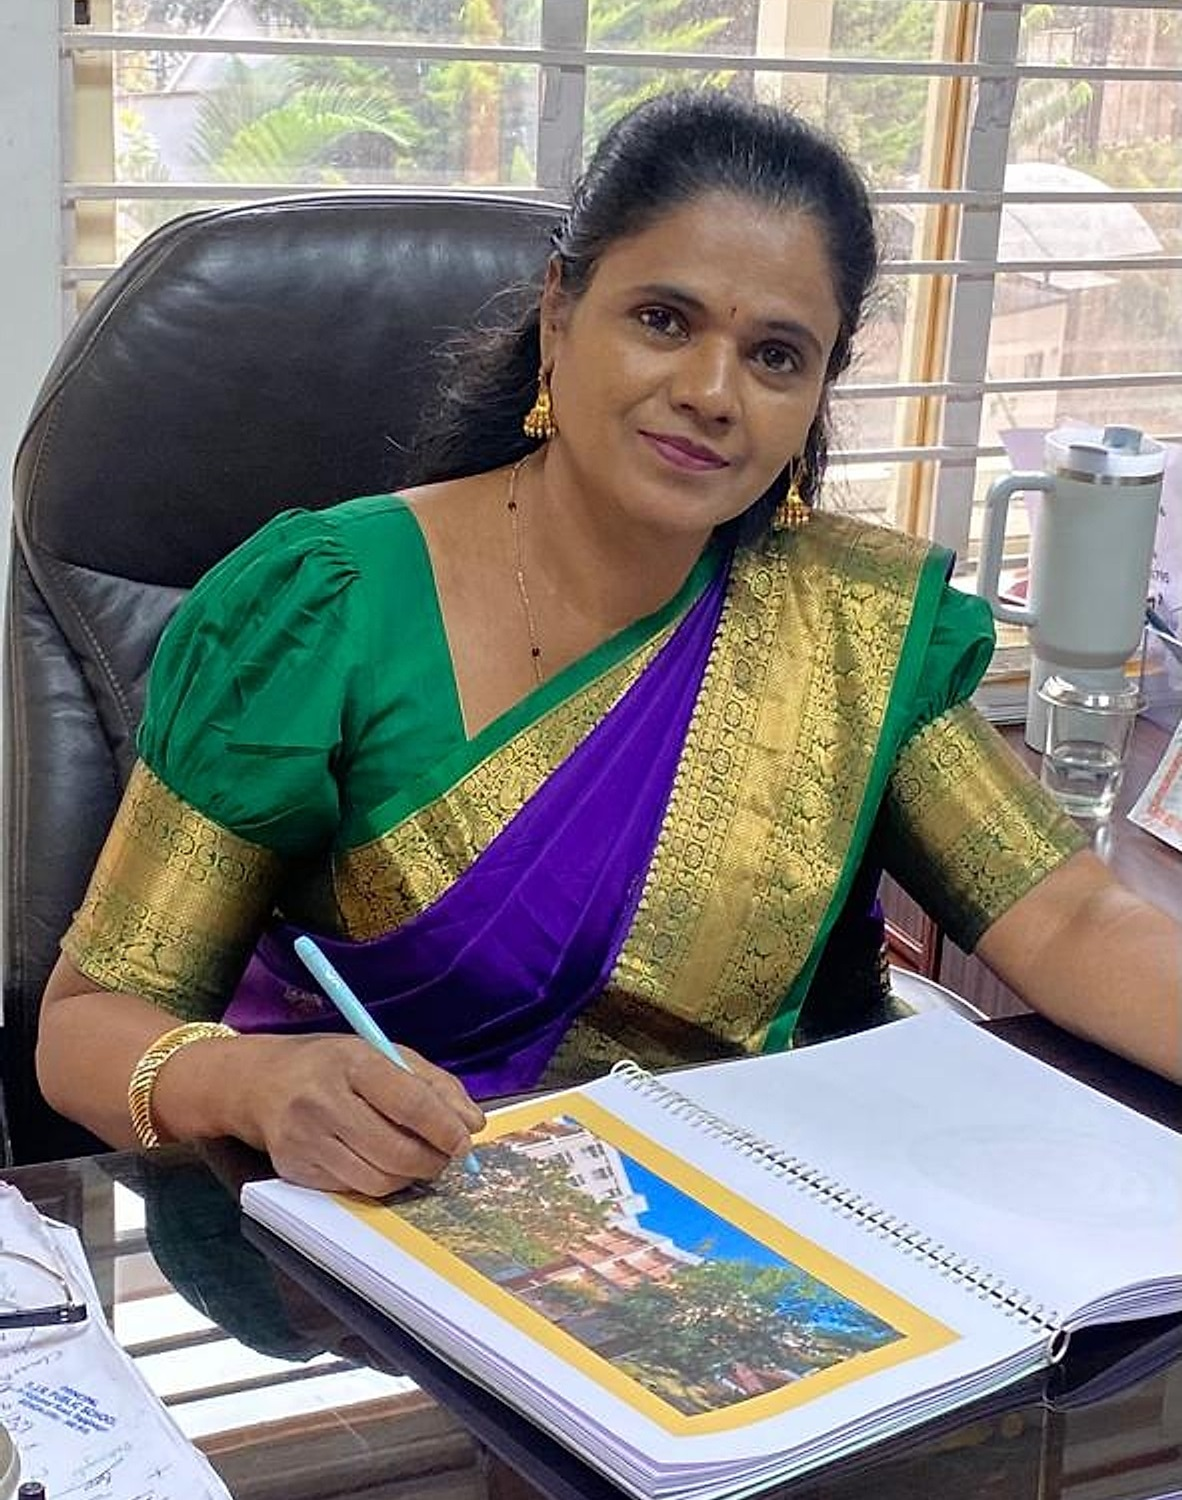
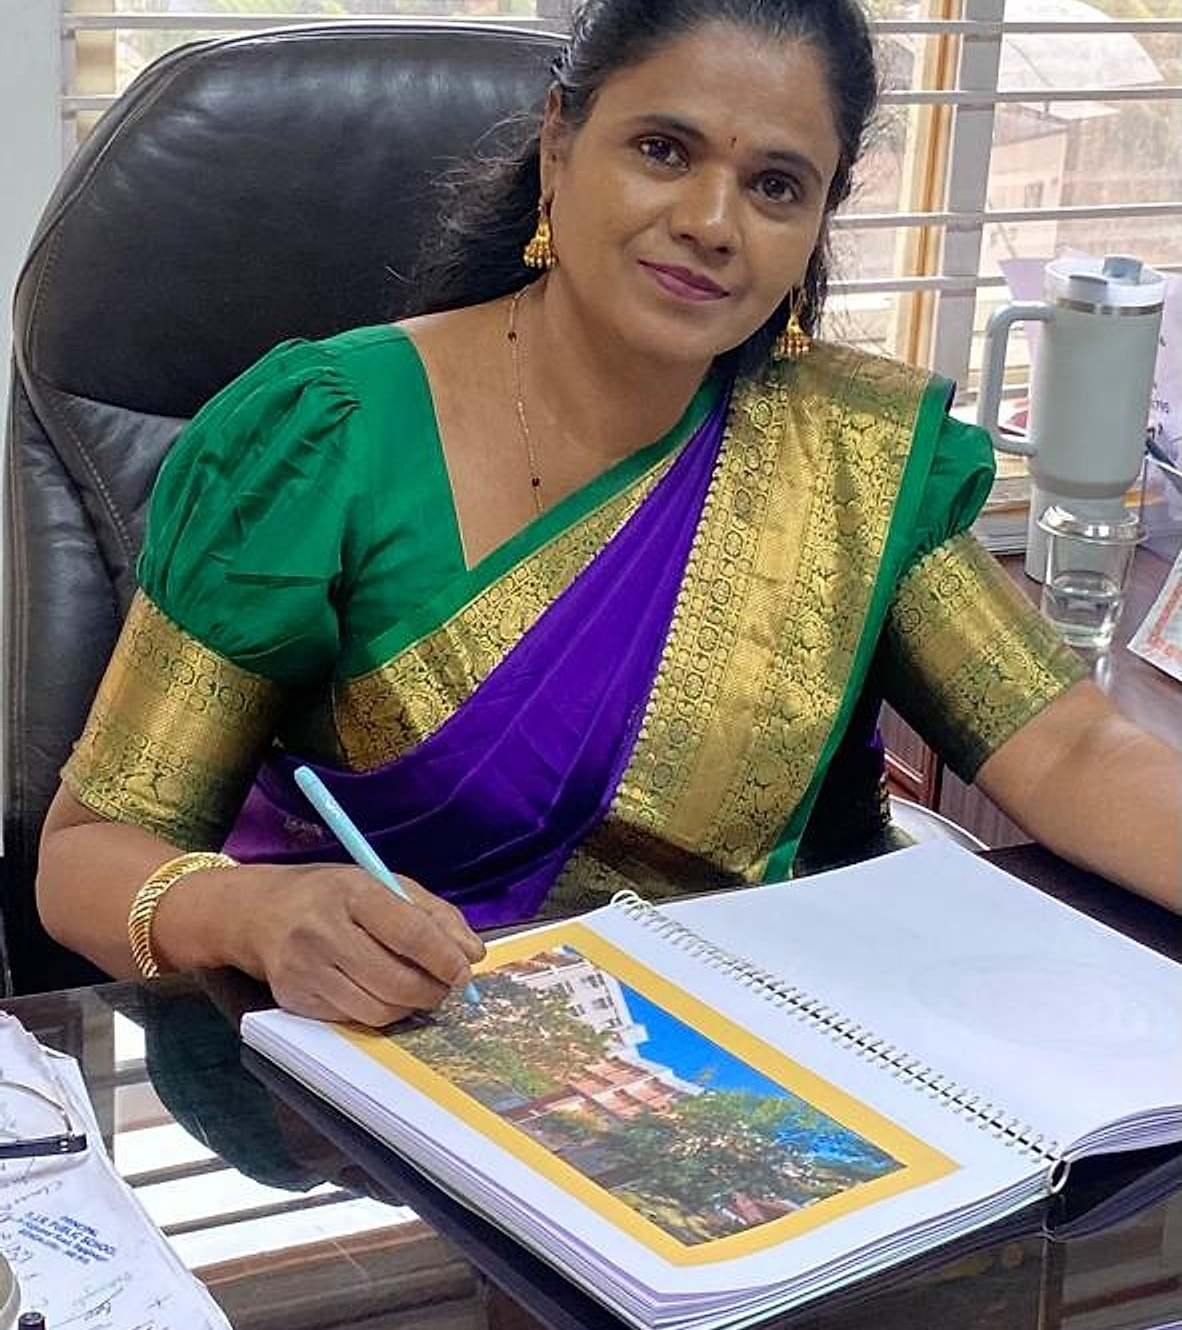
Crop top of Principal photo per marked reference line and align image and text evenly

diff --git a/src/components/PrincipalMessageSection.tsx b/src/components/PrincipalMessageSection.tsx
@@ -7,17 +7,17 @@ const PrincipalMessageSection = () => {
   return (
     <section className="py-12 sm:py-16 bg-white">
       <div className="container mx-auto px-4">
-        <div className="text-center mb-8 max-w-3xl mx-auto">
+        <div className="text-center mb-8 sm:mb-10 max-w-3xl mx-auto">
           <span className="text-xs font-semibold uppercase tracking-[0.2em] text-indian-green">Leadership</span>
           <h2 className="text-3xl md:text-4xl font-bold text-school-brown mt-2 leading-tight">
             Principal's <span className="text-indian-green">Message</span>
           </h2>
         </div>
 
-        <div className="grid lg:grid-cols-12 gap-6 lg:gap-8 max-w-6xl mx-auto items-stretch">
+        <div className="grid lg:grid-cols-12 gap-8 max-w-6xl mx-auto items-stretch">
           {/* Portrait & Profile Card */}
-          <div className="lg:col-span-5 flex flex-col rounded-2xl overflow-hidden shadow-lg border border-indian-green/15 bg-white">
-            <div className="relative flex-1 bg-slate-100 w-full overflow-hidden min-h-[300px] flex items-center justify-center">
+          <div className="lg:col-span-5 flex flex-col rounded-2xl overflow-hidden shadow-xl border border-indian-green/15 bg-white">
+            <div className="relative flex-1 bg-slate-100 w-full overflow-hidden min-h-[320px] flex items-center justify-center">
               <img 
                 src={schoolConfig.principal.photo} 
                 alt={`${schoolConfig.principal.name} — ${schoolConfig.principal.role}`} 
@@ -35,31 +35,31 @@ const PrincipalMessageSection = () => {
           </div>
 
           {/* Content */}
-          <div className="lg:col-span-7 flex flex-col justify-between bg-gradient-to-br from-indian-green/5 via-slate-50/50 to-tricolor-orange/5 p-6 sm:p-7 rounded-2xl border border-indian-green/15 shadow-sm">
-            <div className="space-y-4">
+          <div className="lg:col-span-7 flex flex-col justify-between bg-gradient-to-br from-indian-green/5 via-white to-tricolor-orange/5 p-6 sm:p-8 rounded-2xl border border-indian-green/15 shadow-sm">
+            <div className="space-y-4 sm:space-y-5">
               <div>
-                <Quote className="h-7 w-7 text-indian-green/80 mb-2" />
-                <p className="text-base sm:text-lg md:text-xl font-serif italic text-school-brown leading-snug">
+                <Quote className="h-9 w-9 text-indian-green mb-2" />
+                <p className="text-lg sm:text-xl font-serif italic text-school-brown leading-snug">
                   "{schoolConfig.principal.quote}"
                 </p>
               </div>
 
-              <div className="space-y-3 text-muted-foreground leading-relaxed text-sm">
-                <div className="p-3.5 rounded-xl bg-white/80 border border-indian-green/10 shadow-2xs">
+              <div className="space-y-3.5 text-muted-foreground leading-relaxed text-sm sm:text-[15px]">
+                <div>
                   <p className="font-semibold text-indian-green text-xs uppercase tracking-wider mb-1">Our Vision</p>
-                  <p className="text-slate-700 leading-normal">{schoolConfig.principal.vision}</p>
+                  <p className="text-slate-700">{schoolConfig.principal.vision}</p>
                 </div>
-                <div className="p-3.5 rounded-xl bg-white/80 border border-indian-green/10 shadow-2xs">
+                <div>
                   <p className="font-semibold text-indian-green text-xs uppercase tracking-wider mb-1">Our Mission</p>
-                  <p className="text-slate-700 leading-normal">{schoolConfig.principal.mission}</p>
+                  <p className="text-slate-700">{schoolConfig.principal.mission}</p>
                 </div>
-                <p className="font-semibold text-school-brown italic pt-1 text-xs sm:text-sm border-t border-indian-green/15 text-center sm:text-left">
+                <p className="font-semibold text-school-brown italic pt-2 border-t border-indian-green/20">
                   "{schoolConfig.principal.tagline}"
                 </p>
               </div>
             </div>
 
-            <div className="pt-4 mt-2">
+            <div className="pt-6">
               <Button asChild className="bg-indian-green hover:bg-indian-green/90 text-white px-6 shadow-sm">
                 <Link to="/about/principal-message">
                   Read Full Message
